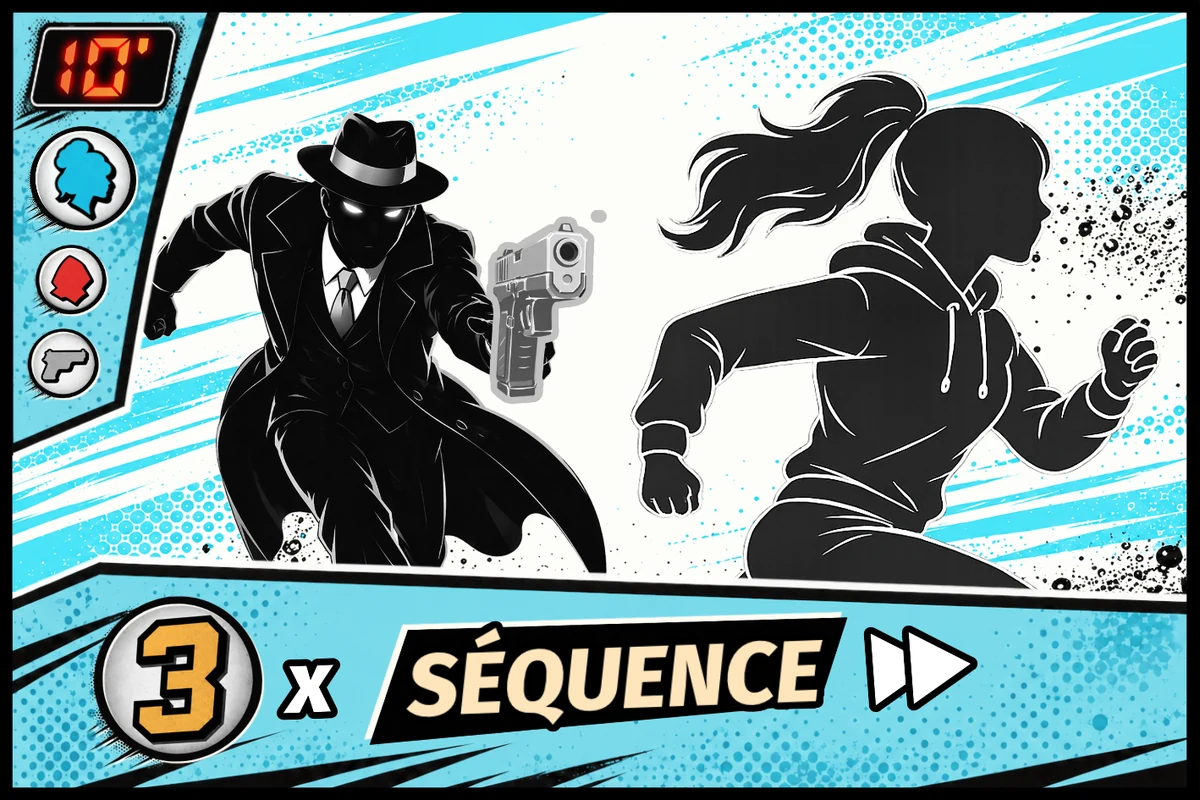
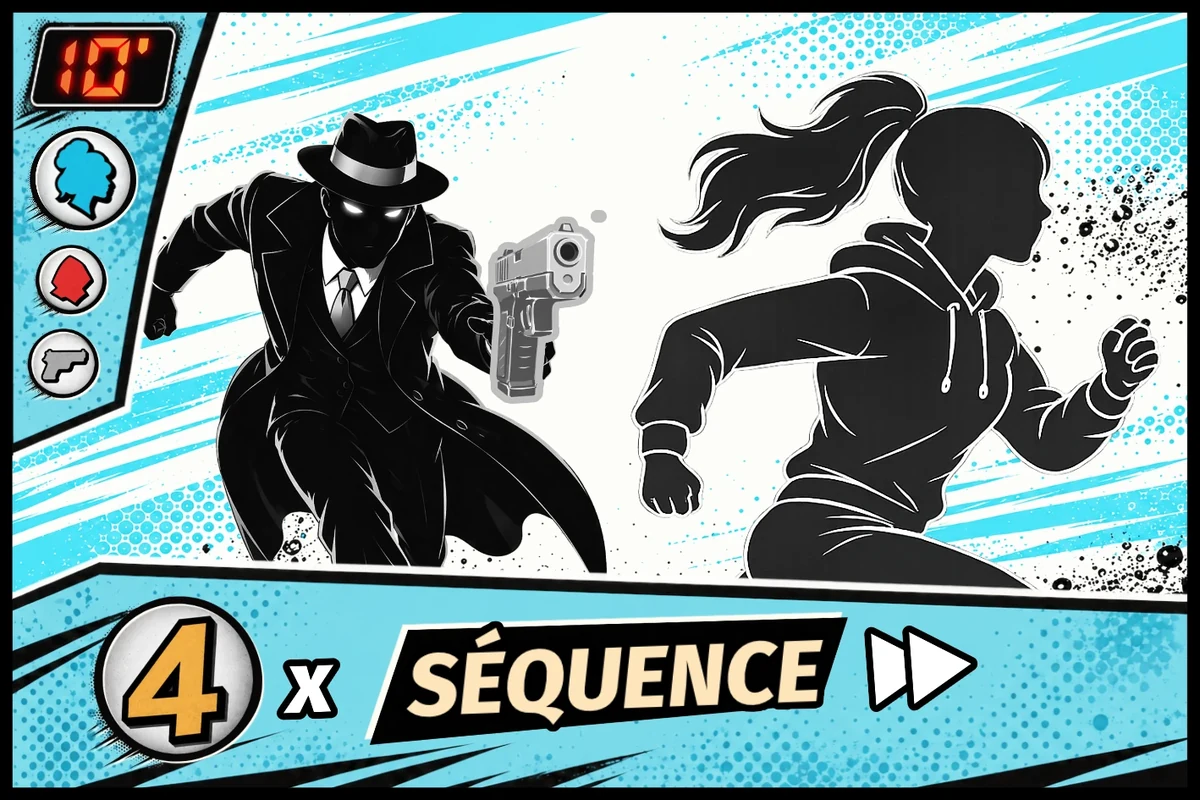
v4.1.17 - Cinq cartes revues
- Cinq cartes revues (GP33, L2, L3, L4, L19) : nouvelles images et pouvoirs relus — GP33 « 1 × ◁ Allié ▷ », L3 « 4 × SÉQUENCE ▷▷ », L19 « 4 × ◁◁ SÉQUENCE ».
- L4 : « 4 × SÉQUENCE avec 6 icônes différentes » — une cible nouvelle du moteur, les six types d’icônes dans la séquence.

Claude-Session: https://claude.ai/code/session_01SEL89cNhQA7nZJAfcMueK5

diff --git a/js/data.js b/js/data.js
@@ -461,7 +461,7 @@ const PLURIELS_CADRAGE = { PL: 'Plans Larges', GP: 'Gros Plans', DEP: 'Plans de 
 
 export const CIBLES_COMPTE = [
   { id: 'CARTE',    label: 'Carte (Raccords compris)', court: 'Carte',   pl: 'Cartes', f: true },
-  { id: 'PLAN',     label: 'Plan (hors Raccord)',      court: 'Plan',    pl: 'Plans' },
+  { id: 'PLAN',     label: 'Plan (Raccord, Ouverture, Fin compris)', court: 'Plan', pl: 'Plans' },
   { id: 'RACCORD',  label: 'Carte Raccord',            court: 'Raccord', pl: 'Raccords' },
   { id: 'MORT',     label: 'Plan de mort',             court: 'Plan de mort', pl: 'Plans de mort' },
   ...CADRAGES_POUVOIR.map((f) => ({ id: f, label: FORMATS[f].label, court: FORMATS[f].label,
@@ -476,6 +476,9 @@ export const CIBLES_COMPTE = [
   // « -- » —, et l'ORDRE — une séquence dont les minutages se suivent.
   { id: 'TC_VIDE',  label: 'Plan sans chrono (« -- »)', court: 'plan sans chrono', pl: 'plans sans chrono' },
   { id: 'ORDRE',    label: 'Chronos dans l’ordre',      court: 'chronos dans l’ordre', pl: 'chronos dans l’ordre' },
+  // « SÉQUENCE avec 6 différentes ? » (L4) : les types d'icônes DIFFÉRENTS
+  // que la séquence montre, parmi les six — le crâne n'en est pas un.
+  { id: 'DIFFERENTES', label: 'Icônes différentes', court: 'icône différente', pl: 'icônes différentes', f: true },
 ];
 
 export const CIBLE_IDS = CIBLES_COMPTE.map((c) => c.id);
@@ -541,8 +544,10 @@ export function ciblesSequence() {
     ...CADRAGES_VISABLES.map((f) => ({ id: f, label: FORMATS[f].label })),
     { id: 'RACCORD', label: 'Raccord' },
     { id: 'MORT', label: 'Plan de mort' },
-    // « Séquence avec 3+ Plans » : les plans de la ligne, Raccords exclus.
-    { id: 'PLAN', label: 'Plan (hors Raccord)' },
+    // « Séquence avec 3+ Plans » : les plans de la ligne, Raccords compris.
+    { id: 'PLAN', label: 'Plan (Raccords compris)' },
+    // « Séquence avec 6 différentes » : les types d'icônes différents.
+    { id: 'DIFFERENTES', label: 'Icônes différentes' },
     // « Valeur de Plan » ne se compte pas comme les autres : ce ne sont pas
     // les plans porteurs qu'on dénombre mais les cadrages DIFFÉRENTS de la
     // ligne. « Une séquence avec 3 Valeurs de Plan » demande donc les trois.
@@ -564,6 +569,7 @@ export function libelleCible(cible) {
   if (cible === 'MORT') return 'Plan de mort';
   if (cible === 'PLAN') return 'Plan';
   if (cible === 'VALEUR') return 'Valeur de Plan';
+  if (cible === 'DIFFERENTES') return 'Icônes différentes';
   if (FORMATS[cible]) return FORMATS[cible].label;
   return ELEMENTS[cible] ? ELEMENTS[cible].label : cible;
 }
@@ -1026,8 +1032,8 @@ const PD41 = [5, 7, 12, 16];
 const PLANS_41 = [
   PL(1, 10, ['OBJET', 'ARME', 'HEROINE'], OBJ.seqAvec(5, 'AVEC', 'OBJET', 3)),
   PL(2, 10, ['ALLIE', 'VEHICULE', 'ENNEMI'], OBJ.seqAvec(3, 'AVEC', 'RACCORD')),
-  PL(3, 10, ['HEROINE', 'ENNEMI', 'ARME'], OBJ.seqVoisines(3, 'APRES')),
-  PL(4, 20, ['ALLIE', 'HEROINE', 'OBJET'], OBJ.absentes(10, 'MONTAGE')),
+  PL(3, 10, ['HEROINE', 'ENNEMI', 'ARME'], OBJ.seqVoisines(4, 'APRES')),
+  PL(4, 20, ['ALLIE', 'HEROINE', 'OBJET'], OBJ.seqAvec(4, 'AVEC', 'DIFFERENTES', 6)),
   PL(5, 20, ['OBJET', 'HEROINE', 'ALLIE', 'VEHICULE'], OBJ.raccordVaut(1)),
   PL(6, 20, ['OBJET', 'ARME', 'VEHICULE'], OBJ.seqLongue(2)),
   PL(7, 30, ['ALLIE', 'ENNEMI', 'ARME'], OBJ.planPlus(1)),
@@ -1042,7 +1048,7 @@ const PLANS_41 = [
   PL(16, 50, ['ARME', 'ARME', 'HEROINE', 'ENNEMI'], OBJ.piocher()),
   PL(17, 60, ['ALLIE', 'HEROINE', 'VEHICULE'], OBJ.extreme(1, 'PLUS', 'MONTAGE')),
   PL(18, 60, ['ENNEMI', 'HEROINE', 'ALLIE'], OBJ.seqAvec(4, 'AVEC', 'HEROINE+ALLIE+ENNEMI'), { mort: true }),
-  PL(19, 60, ['HEROINE', 'VEHICULE', 'OBJET'], OBJ.seqVoisines(3, 'AVANT'), { mort: true }),
+  PL(19, 60, ['HEROINE', 'VEHICULE', 'OBJET'], OBJ.seqVoisines(4, 'AVANT'), { mort: true }),
 ];
 
 // Les cinquante-quatre GROS PLANS, 60 × 80 mm chacun. Leur numéro dit leur
@@ -1077,7 +1083,7 @@ const GP_41 = [
   X41(30, 30, ['ARME', 'ENNEMI'], OBJ.domine(6, 'ARME')),
   X41(31, 30, ['OBJET', 'ENNEMI'], OBJ.seuilCible(4, 'ORDRE', 'MIN', 1, 'SEQUENCE')),
   X41(32, 30, ['ENNEMI', 'OBJET'], OBJ.seuilCible(6, 'ENNEMI', 'MIN', 6, 'MONTAGE')),
-  X41(33, 30, ['ALLIE', 'OBJET'], OBJ.element(1, 'ALLIE', 'APRES')),
+  X41(33, 30, ['ALLIE', 'OBJET'], OBJ.element(1, 'ALLIE', 'SEQUENCE')),
   X41(34, 30, ['OBJET', 'ARME'], OBJ.absent(5, 'HEROINE', 'SEQUENCE')),
   X41(35, 30, ['HEROINE', 'ALLIE'], OBJ.seqTaille(2, 1)),
   X41(40, 40, ['VEHICULE', 'VEHICULE'], OBJ.element(2, 'VEHICULE', 'SEQUENCE')),

diff --git a/js/livret.js b/js/livret.js
@@ -107,6 +107,8 @@ function mots(cible) {
     case 'TC_VIDE': return { un: 'carte sans chrono', des: 'cartes sans chrono',
       aucun: `aucune carte sans chrono (${afficheur(TC_VIDE)})`, une: 'une carte sans chrono' };
     case 'ICONE': return { un: 'icône', des: 'icônes', aucun: 'aucune icône', une: 'une icône' };
+    case 'DIFFERENTES': return { un: 'icône différente', des: 'icônes différentes',
+      aucun: 'aucune icône', une: 'une icône différente' };
     default: return { un: String(cible), des: String(cible), aucun: `aucun ${cible}`, une: String(cible) };
   }
 }
@@ -184,6 +186,10 @@ const COMPTENT = [
   { si: (o) => o.kind === 'SEQ_AVEC' && o.sens !== 'SANS' && o.cible === 'PLAN',
     dit: (o) => `<b>${pts(o.n)} par séquence d’au moins ${o.seuil || 1} plans</b>. Le Raccord,
       l’Ouverture et la Fin sont des plans comme les autres.` },
+  { si: (o) => o.kind === 'SEQ_AVEC' && o.sens !== 'SANS' && o.cible === 'DIFFERENTES',
+    dit: (o) => `<b>${pts(o.n)} par séquence qui montre ${o.seuil || 1} icônes différentes</b>${
+      (o.seuil || 1) >= 6 ? ' — les six : Héroïne, Ennemi, Allié, Objet, Arme et Véhicule' : ''}. Le crâne
+      n’en est pas une.` },
   { si: (o) => o.kind === 'SEQ_AVEC' && o.sens !== 'SANS' && o.cible === 'ORDRE',
     dit: (o) => `<b>${pts(o.n)} par séquence dont les chronos sont dans l’ordre</b> :
       ${DANS_L_ORDRE}.` },

diff --git a/js/version.js b/js/version.js
@@ -1,8 +1,16 @@
 // Compteur de version — incrémenter à chaque modification livrée.
-export const VERSION = '4.1.16';
-export const BUILD_DATE = '2026-11-11 20:56';
+export const VERSION = '4.1.17';
+export const BUILD_DATE = '2026-11-13 11:42';
 
 export const CHANGELOG = [
+  {
+    v: '4.1.17',
+    date: '13/11/2026',
+    items: [
+      "<b>Cinq cartes revues</b> (GP33, L2, L3, L4, L19) : nouvelles images et pouvoirs relus — GP33 « 1 × ◁ Allié ▷ », L3 « 4 × SÉQUENCE ▷▷ », L19 « 4 × ◁◁ SÉQUENCE ».",
+      "<b>L4</b> : « 4 × SÉQUENCE avec 6 icônes différentes » — une cible nouvelle du moteur, les six types d’icônes dans la séquence.",
+    ],
+  },
   {
     v: '4.1.16',
     date: '11/11/2026',

diff --git a/js/cards.js b/js/cards.js
@@ -334,6 +334,7 @@ function cibleHTML(cible, taille, compact) {
     case 'SEQUENCE': return tagSeq(compact);
     case 'ICONE':    return `<span class="tag tag-blanc">${compact ? 'Ic.' : 'Icône'}</span>`;
     case 'VALEUR':   return `<span class="tag tag-blanc">${compact ? 'Val.' : 'Valeur de Plan'}</span>`;
+    case 'DIFFERENTES': return `<span class="mot">${compact ? 'diff.' : 'différentes'}</span><span class="tag tag-blanc">?</span>`;
     case 'TC_VIDE':  return '<span class="tag tag-chrono">--</span>';
     case 'ORDRE':    return '<span class="tag tag-chrono">↗ ordre</span>';
     default:         return FORMATS[cible] ? tagCadrage(cible, compact) : elIcon(cible, taille);

diff --git a/js/scoring.js b/js/scoring.js
@@ -90,6 +90,8 @@ export function compteCible(plans, cible, banc) {
     // Gros Plan. On compte celles qui sont DIFFÉRENTES, quel que soit le nombre
     // de cartes.
     case 'VALEUR':   return new Set(plans.map((p) => p.format)).size;
+    // Les types d'icônes DIFFÉRENTS que montrent ces plans, parmi les six.
+    case 'DIFFERENTES': return new Set(plans.flatMap((p) => p.el).filter((e) => ELEMENT_IDS.includes(e))).size;
     case 'SEQUENCE': return banc ? banc.sequences.length : 0;
     // Les plans sans minutage — l'afficheur « -- » des cartes.
     case 'TC_VIDE':  return plans.filter((p) => p.tc === TC_VIDE).length;

diff --git a/sw.js b/sw.js
@@ -7,7 +7,7 @@
 // site, et ne se rabat sur sa copie en cache qu'en cas de coupure — le site
 // reste donc consultable hors ligne, mais n'est jamais périmé en ligne.
 
-const CACHE = 'edit-4.1.16';
+const CACHE = 'edit-4.1.17';
 
 self.addEventListener('install', () => {
   // La nouvelle version du worker prend la main sans attendre.
